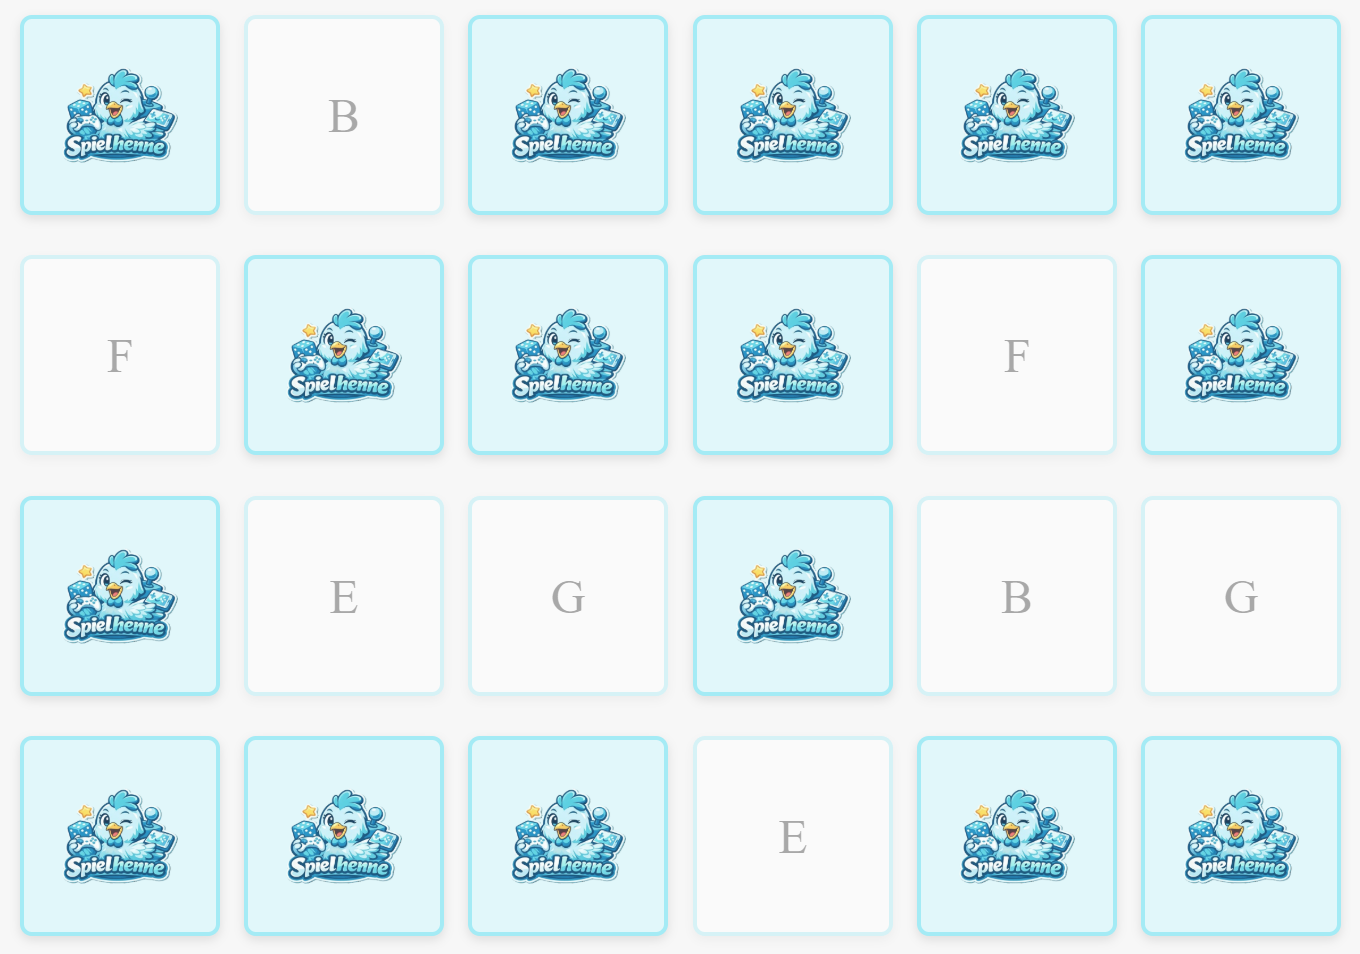
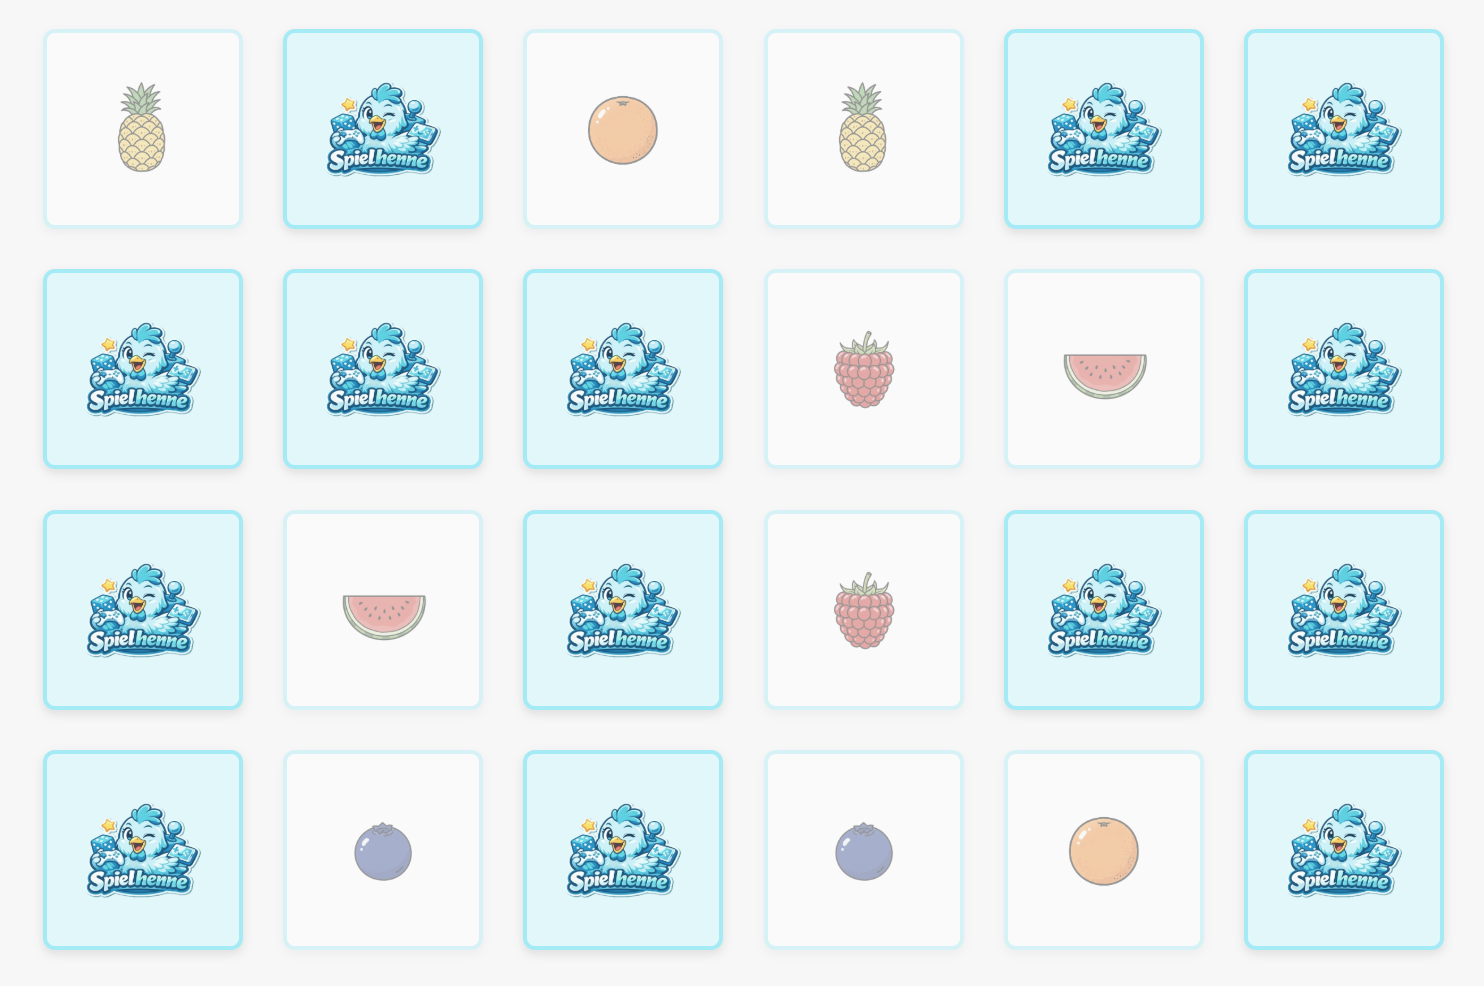
Memory Bilder eingefügt

diff --git a/assets/css/memory.css b/assets/css/memory.css
@@ -6,11 +6,12 @@
 /* --- Game Field Layout --- */
 .game-field {
     display: grid !important; 
-    grid-template-columns: repeat(6, 92px); 
+    /* 6 Spalten passend zu den 100px breiten Karten */
+    grid-template-columns: repeat(6, 100px); 
     gap: 20px; 
     justify-content: center;
     perspective: 1000px;
-    padding: 40px 20px; 
+    padding: 20px 20px; 
     margin: 0 auto;
     width: fit-content; 
 }
@@ -44,44 +45,41 @@
     display: flex;
     align-items: center;
     justify-content: center;
-    font-size: 1.5rem;
     border-radius: 6px;
     box-shadow: 0 2px 5px rgba(0,0,0,0.1);
-    font-family: 'Arial Narrow', Arial, sans-serif;
-    font-weight: 600;
 }
 
-/* Die Vorderseite der Karte (dein helles Blau) */
+/* Vorderseite (verdeckt) */
 .card-front {
     background-color: #e0f7fa; 
     border: 2px solid #a0ecf6;
-    display: flex;
-    align-items: center;
-    justify-content: center;
-    overflow: hidden; /* Falls das Bild zu groß ist */
-    font-family: 'Press Start 2P', system-ui;
+    overflow: hidden;
 }
 
-/* Styling für das Logo auf der Karte */
+/* Logo auf der Rückseite der verdeckten Karte */
 .card-logo {
-    width: 60%;      /* Das Logo füllt 70% der Kartenbreite aus */
-    height: auto;    /* Behält die Proportionen bei */
+    width: 60%;
+    height: auto;
     object-fit: contain;
-    opacity: 0.9;    /* Leicht transparent, wirkt oft edler */
+    opacity: 0.9;
 }
 
-/* Die Rückseite (aufgedeckte Karte) */
+/* Rückseite (aufgedeckte Karte mit Frucht) */
 .card-back {
     background-color: white;
-    color: #333;
     transform: rotateY(180deg);
     border: 2px solid #a0ecf6;
-    display: flex;
-    align-items: center;
-    justify-content: center;
 }
 
-/* Faded effect for matches */
+/* Das Frucht-Bild */
+/* Hinweis: Im JS nutzen wir 'fruit-img', hier also angepasst */
+.fruit-img {
+    width: 80%;      
+    height: 80%;
+    object-fit: contain; 
+}
+
+/* Effekt für gefundene Paare */
 .memory-card.matched {
     opacity: 0.4;
     cursor: default;
@@ -94,7 +92,7 @@
     display: flex;
     justify-content: center;
     gap: 30px;
-    padding-top: 10px;
+    padding: 20px 0;
     font-family: sans-serif;
 }
 
@@ -103,13 +101,15 @@
     border-radius: 15px;
     background: #f0f0f0;
     transition: all 0.3s;
-    min-width: 100px;
+    min-width: 120px;
     text-align: center;
+    font-weight: bold;
+    color: #555;
 }
 
 .player-score.active {
     background: #a0ecf6;
-    color: white;
+    color: #007c91; /* Dunklerer Ton für bessere Lesbarkeit */
     transform: translateY(-3px);
     box-shadow: 0 4px 10px rgba(0,0,0,0.1);
 }
@@ -134,6 +134,7 @@
     border-radius: 15px;
     text-align: center;
     border: 4px solid #a0ecf6;
+    font-family: sans-serif;
     animation: popIn 0.4s cubic-bezier(0.175, 0.885, 0.32, 1.275);
 }
 
@@ -142,13 +143,24 @@
     to { transform: scale(1); opacity: 1; }
 }
 
+.win-popup h2 {
+    margin-top: 0;
+    color: #007c91;
+}
+
 .win-popup button {
     background-color: #a0ecf6;
-    color: white;
+    color: #007c91;
     border: none;
-    padding: 10px 20px;
+    padding: 10px 25px;
     border-radius: 20px;
     cursor: pointer;
     font-weight: bold;
+    margin-top: 15px;
+    transition: background 0.2s;
+}
+
+.win-popup button:hover {
+    background-color: #82dae6;
 }
 /* ------------------ Main-End ------------------ */

diff --git a/assets/js/memory.js b/assets/js/memory.js
@@ -1,10 +1,25 @@
-/* ------------------------------------ Memory Logik ------------------------------------ */
+/* ------------------------------------ Memory Logik mit Früchten ------------------------------------ */
 document.addEventListener('DOMContentLoaded', () => {
     const gameField = document.querySelector('.game-field');
     const playAgainBtn = document.getElementById('playAgainBtn');
     
-    // Config
-    const symbols = ['A', 'B', 'C', 'D', 'E', 'F', 'G', 'H', 'I', 'J', 'K', 'L']; 
+    // Config: Mapping der Buchstaben zu deinen Bilddateien
+    const fruitImages = {
+        'A': 'apfel.png',
+        'B': 'banane.png',
+        'C': 'erdbeere.png',
+        'D': 'ananas.png',
+        'E': 'wassermelone.png',
+        'F': 'kirschen.png',
+        'G': 'himbeere.png',
+        'H': 'blaubeere.png',
+        'I': 'pfirsich.png',
+        'J': 'zitrone.png',
+        'K': 'orange.png',
+        'L': 'trauben.png'
+    };
+
+    const symbols = Object.keys(fruitImages); 
     let cards = [...symbols, ...symbols];
     let flippedCards = [];
     let matchedPairs = 0;
@@ -26,25 +41,29 @@ document.addEventListener('DOMContentLoaded', () => {
         lockBoard = false;
         
         updateScoreDisplay();
+        // Karten mischen
         cards.sort(() => Math.random() - 0.5);
 
-        cards.forEach((symbol, index) => {
-        const card = document.createElement('div');
-        card.classList.add('memory-card');
-        card.dataset.symbol = symbol;
-        
-        card.innerHTML = `
-            <div class="card-inner">
-                <div class="card-front">
-                    <img src="../assets/images/favicon.png" alt="Logo" class="card-logo">
+        cards.forEach((symbol) => {
+            const card = document.createElement('div');
+            card.classList.add('memory-card');
+            card.dataset.symbol = symbol;
+            
+            // Hier nutzen wir fruitImages[symbol], um den Dateinamen zu bekommen
+            card.innerHTML = `
+                <div class="card-inner">
+                    <div class="card-front">
+                        <img src="../assets/images/favicon.png" alt="Logo" class="card-logo">
+                    </div>
+                    <div class="card-back">
+                        <img src="../assets/images/${fruitImages[symbol]}" alt="${symbol}" class="fruit-img">
+                    </div>
                 </div>
-                <div class="card-back">${symbol}</div>
-            </div>
-        `;
-        
-        card.addEventListener('click', flipCard);
-        gameField.appendChild(card);
-    });
+            `;
+            
+            card.addEventListener('click', flipCard);
+            gameField.appendChild(card);
+        });
     }
 
     function flipCard() {
@@ -72,7 +91,6 @@ document.addEventListener('DOMContentLoaded', () => {
                 card2.classList.add('matched');
                 resetTurn(true);
                 
-                // Delay before popup if game is won
                 if (matchedPairs === symbols.length) {
                     setTimeout(showWinPopup, 500);
                 }

diff --git a/index.html b/index.html
@@ -114,7 +114,7 @@
             <div class="memory">
                 Memory
             </div>
-            <img src="../assets/images/memory.png" height="auto" width="194px" class="memimg"> 
+            <img src="../assets/images/memory.png" height="auto" width="206px" class="memimg"> 
         </a>
 
         <a href="pages/solitaire.html" class="game" data-players="1">
